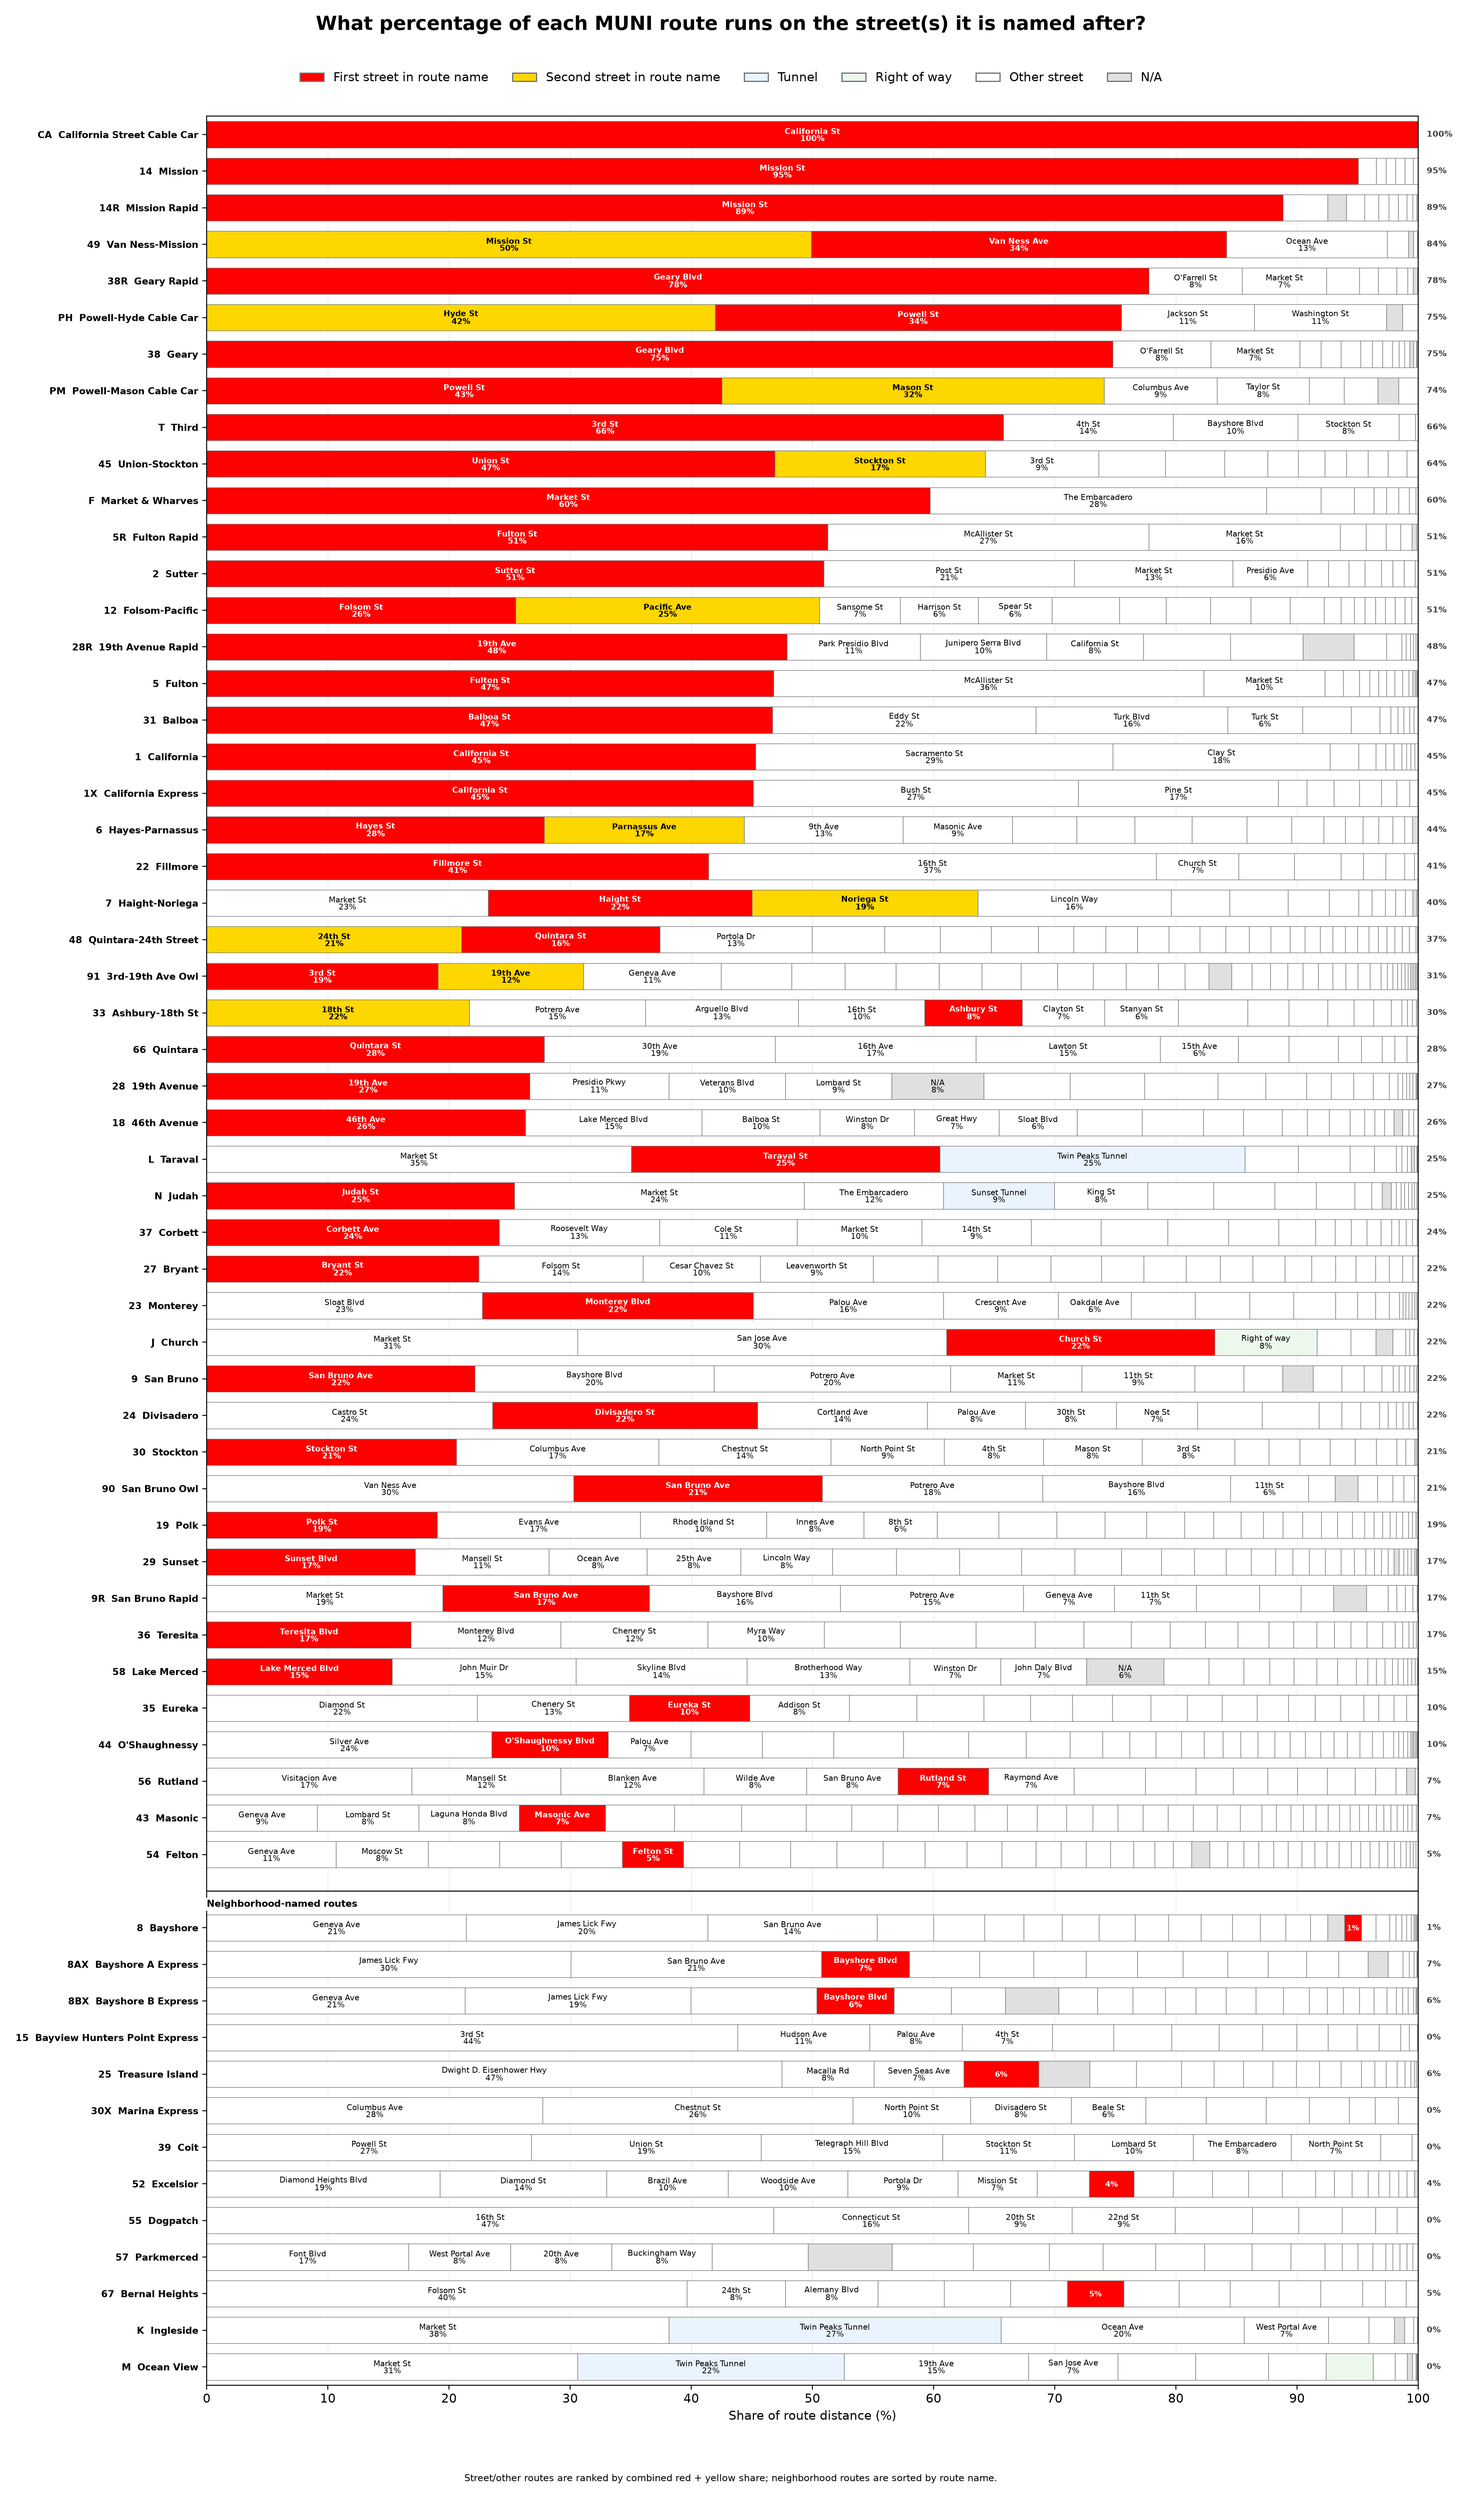
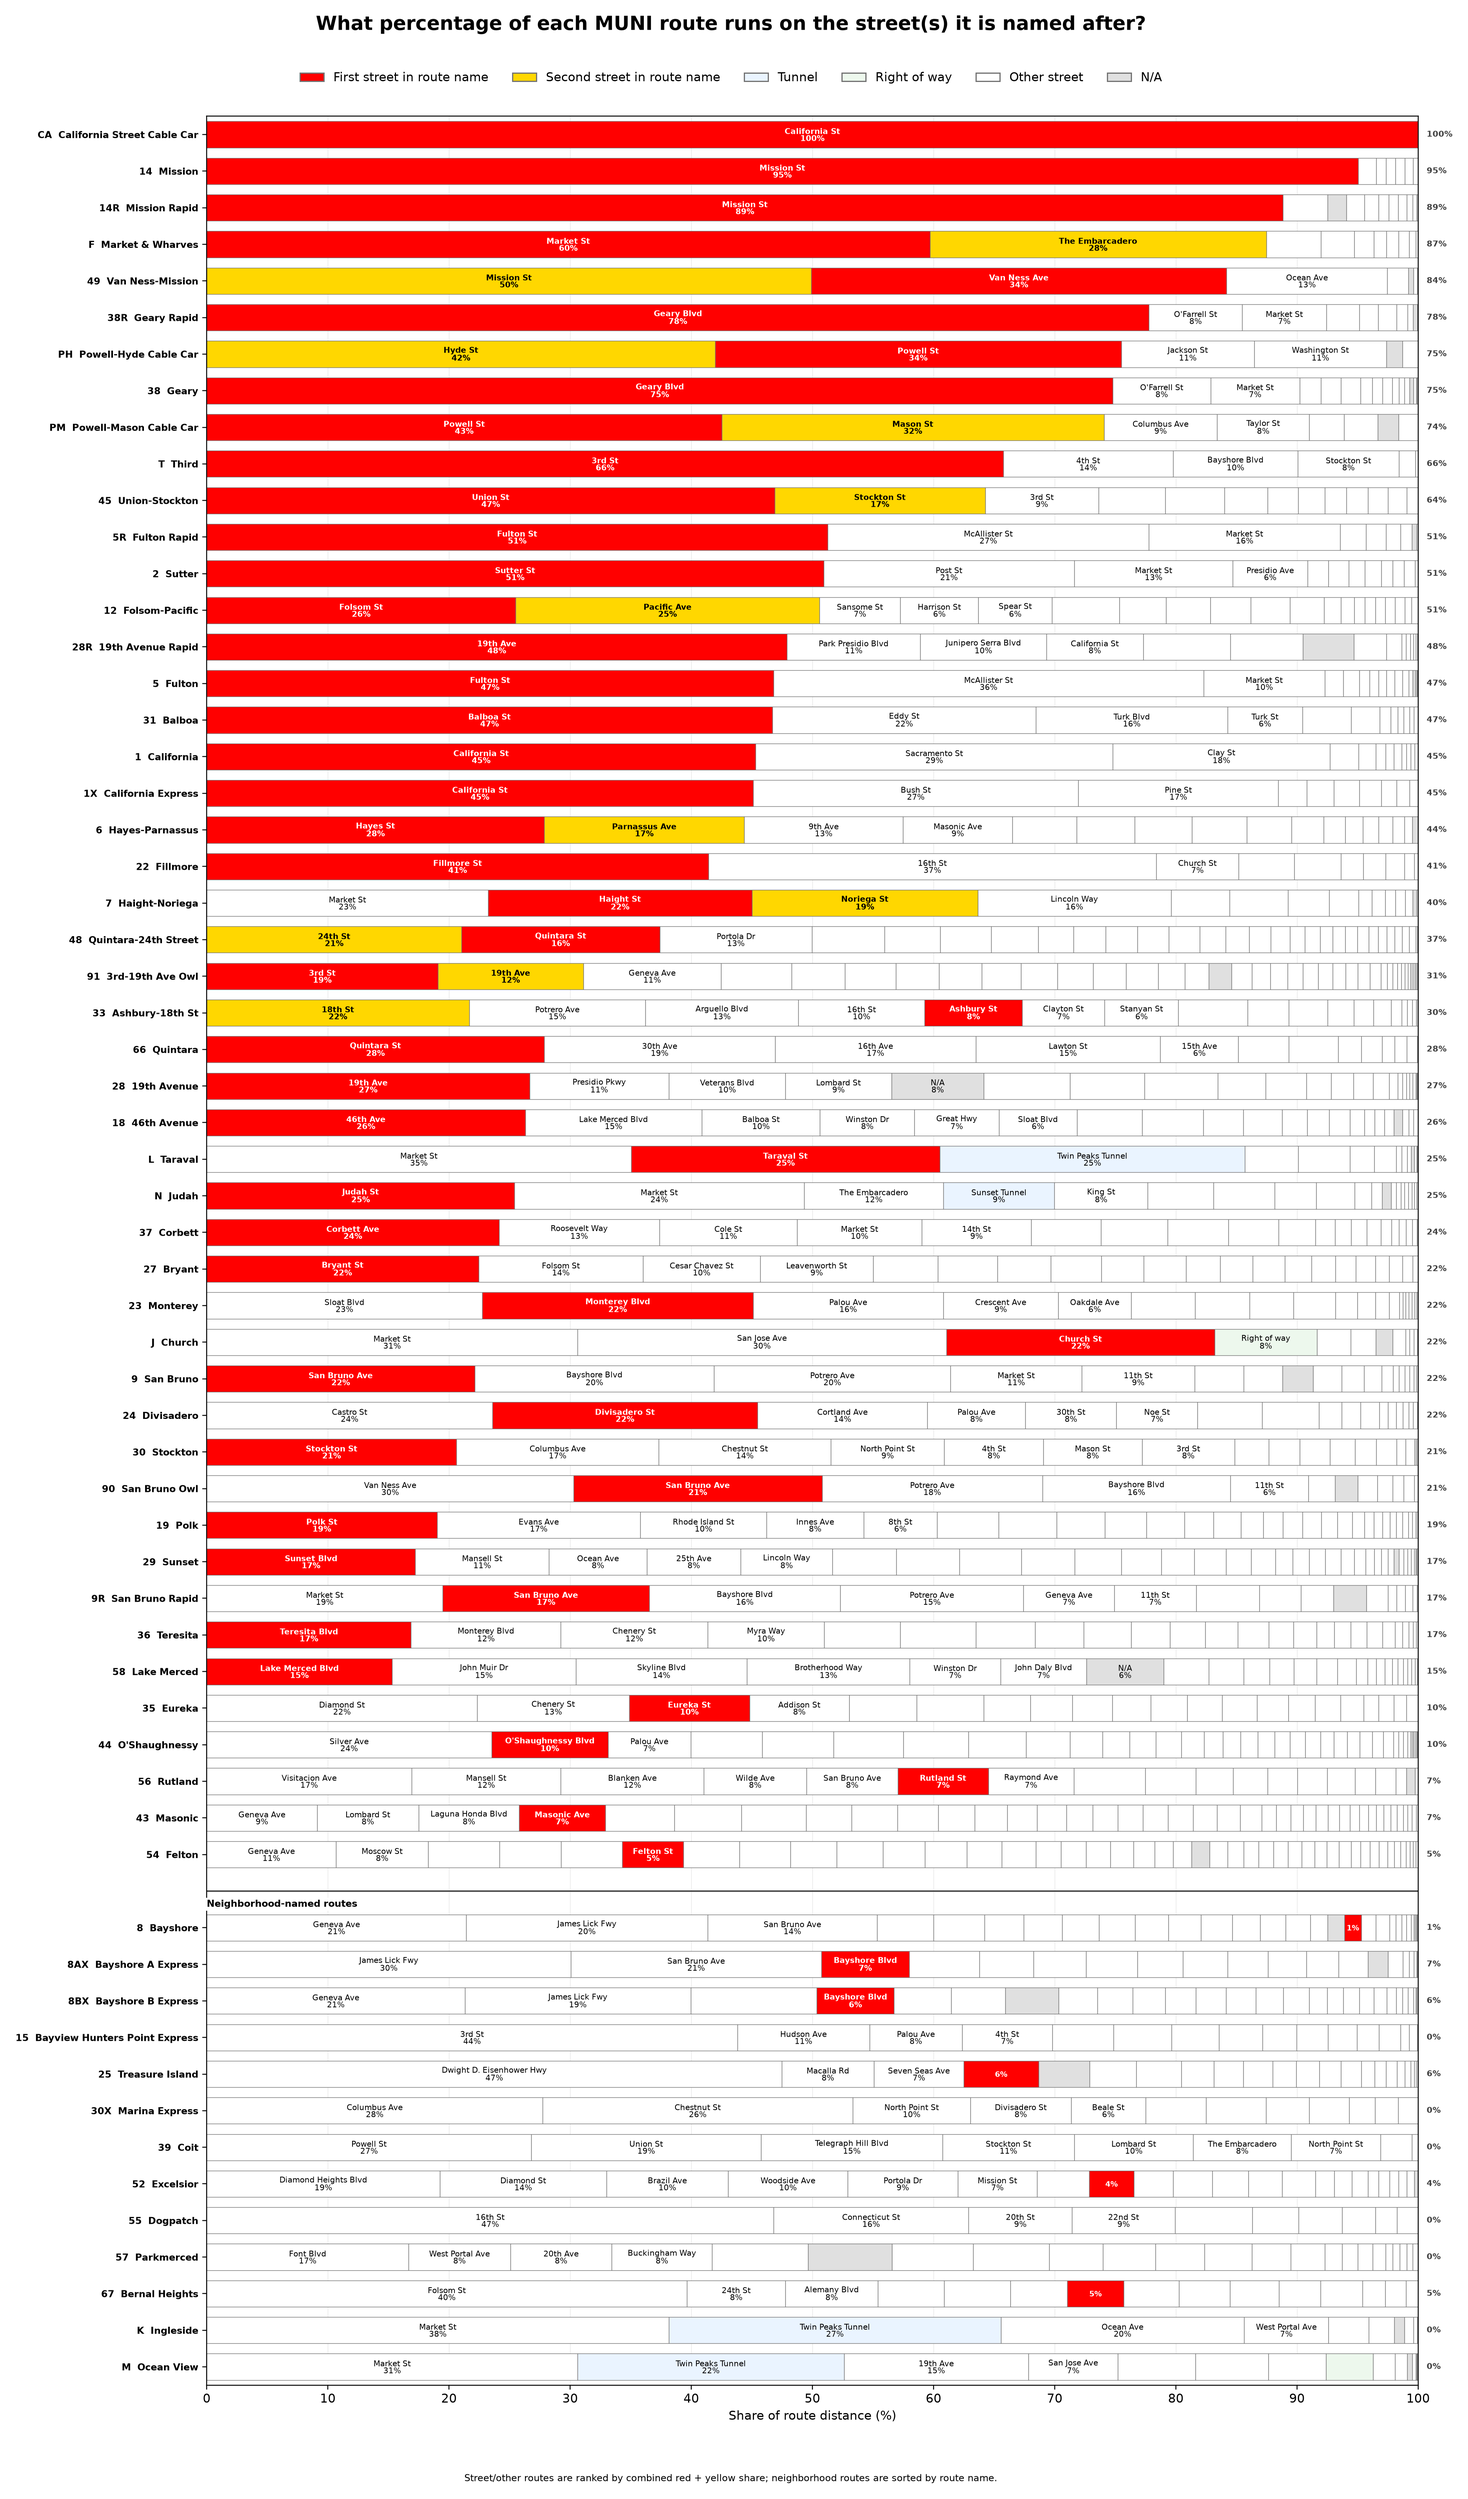
Update F routes

Changed region(s): [[0.0625, 0.0937, 0.9062, 0.2186], [0.9062, 0.0937, 0.9688, 0.1874]]

diff --git a/plot_muni_route_named_streets.py b/plot_muni_route_named_streets.py
@@ -168,8 +168,8 @@ ROUTE_NAME_OVERRIDES: dict[str, list[str] | None] = {
     # California Street Cable Car: keep an explicit invariant even if its
     # public long name gains/removes a service qualifier in a future GTFS feed.
     "CA": ["California Street"],
-    # "49": ["Van Ness Avenue", "Mission Street"],
-    # "F": ["Market Street", "The Embarcadero"],
+    "49": ["Van Ness Avenue", "Mission Street"],
+    "F": ["Market Street", "The Embarcadero"],
 }
 
 # Section placement only. These routes STILL go through normal street matching.

diff --git a/plot_muni_route_named_streets_by_length.py b/plot_muni_route_named_streets_by_length.py
@@ -169,8 +169,8 @@ ROUTE_NAME_OVERRIDES: dict[str, list[str] | None] = {
     # California Street Cable Car: keep an explicit invariant even if its
     # public long name gains/removes a service qualifier in a future GTFS feed.
     "CA": ["California Street"],
-    # "49": ["Van Ness Avenue", "Mission Street"],
-    # "F": ["Market Street", "The Embarcadero"],
+    "49": ["Van Ness Avenue", "Mission Street"],
+    "F": ["Market Street", "The Embarcadero"],
 }
 
 # Section placement only. These routes STILL go through normal street matching.
